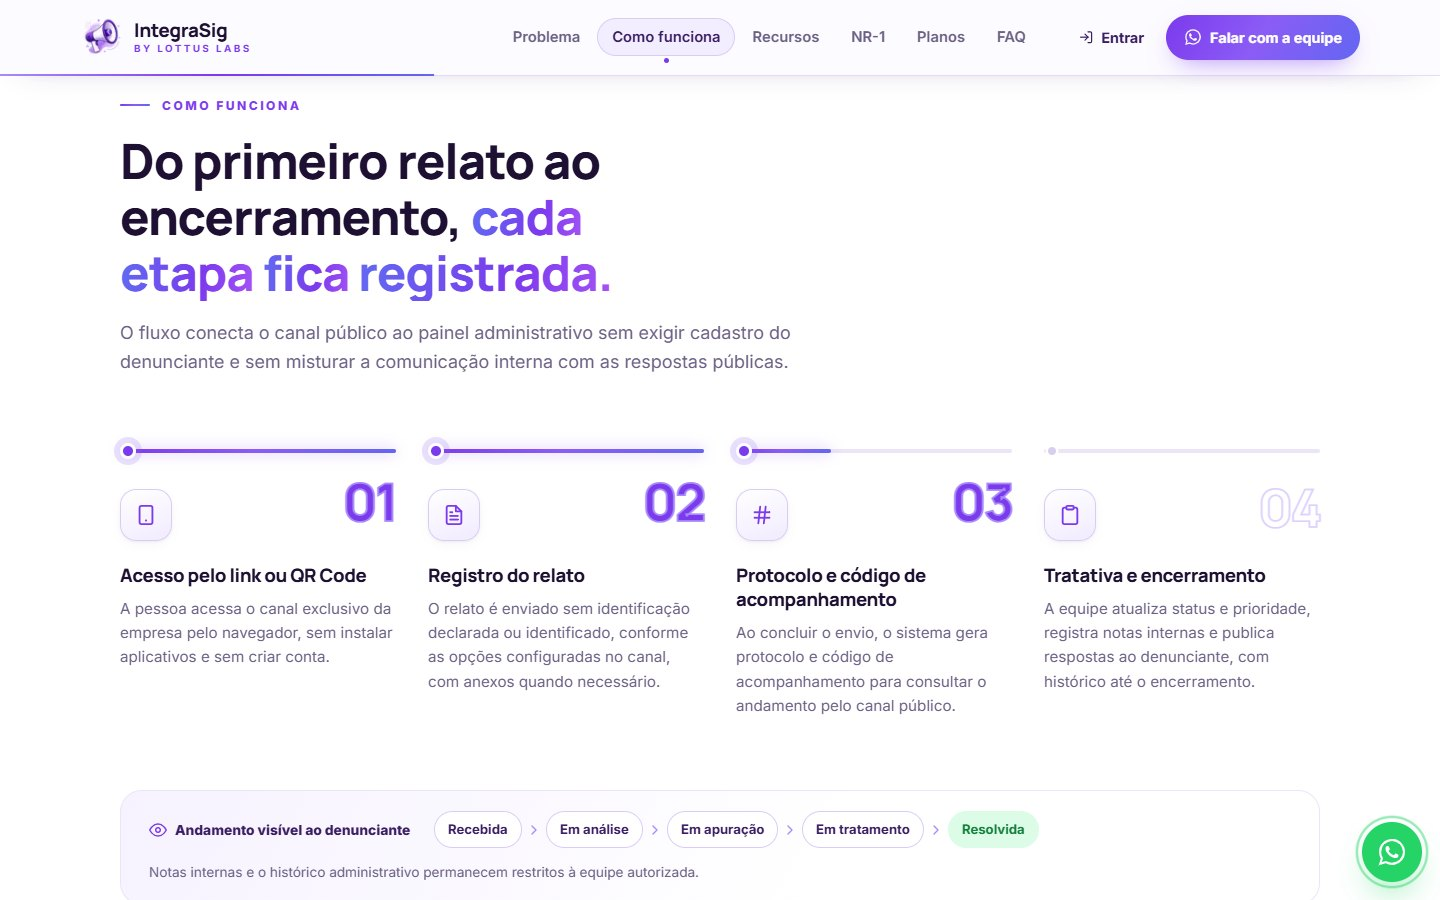
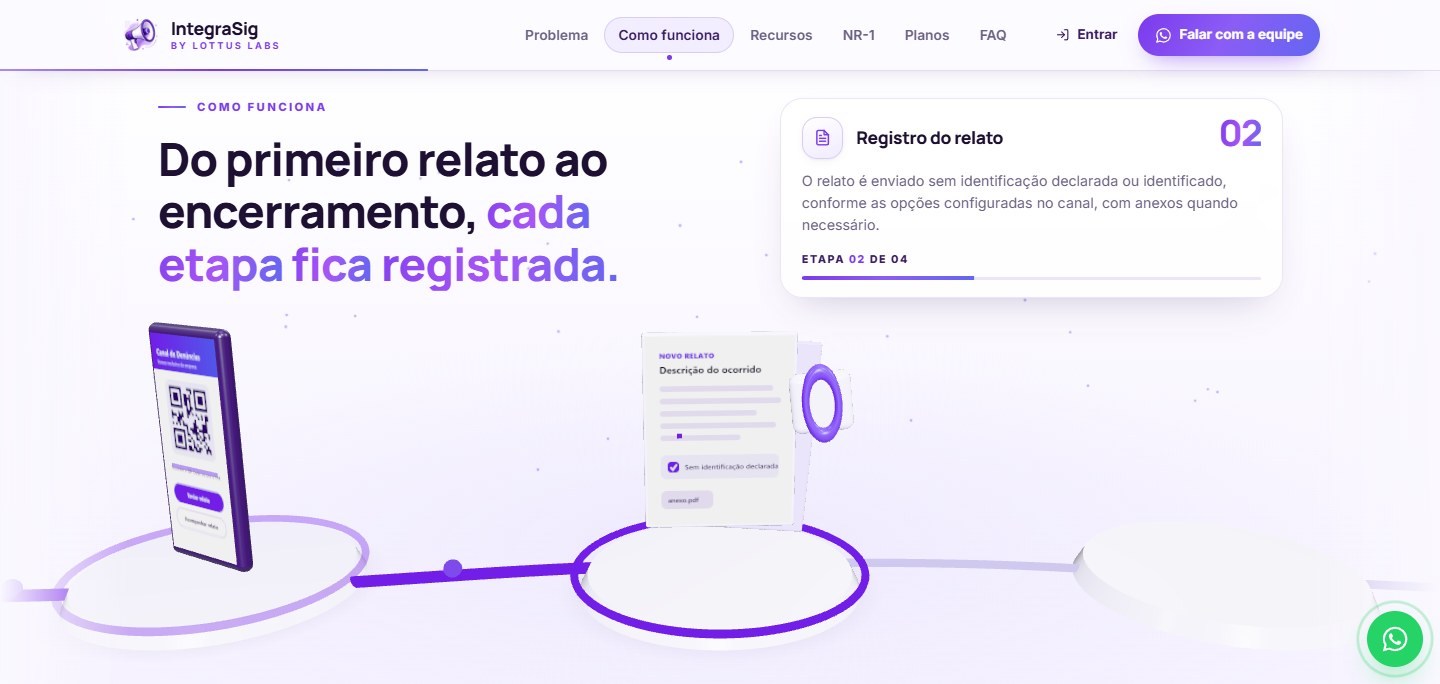
docs: refresh README screenshots and mention Three.js

diff --git a/README.md b/README.md
@@ -24,15 +24,25 @@ Está em produção, com site institucional, portal público, painel das empresa
 
 ## Prévias de algumas partes
 
-<img src="assets/desktop-inicio.jpg" alt="Tela inicial do site: “Canal de denúncias, relatos corporativos e apoio à gestão da NR-1”, com uma prévia animada do painel administrativo" width="100%">
+<img src="assets/desktop-inicio.jpg" alt="Tela inicial do site: “Canal de denúncias, relatos corporativos e apoio à gestão da NR-1”, com o megafone 3D da marca e os números sobre violência e assédio no trabalho" width="100%">
 
 ### Landing page pública de apresentação
 
 <table>
   <tr>
     <td width="50%">
-      <img src="assets/desktop-como-funciona.jpg" alt="Seção Como funciona com as quatro etapas do relato">
-      <p align="center"><b>Como funciona</b><br><sub>Do primeiro relato ao encerramento, com progresso que acompanha a rolagem</sub></p>
+      <img src="assets/desktop-legislacao.jpg" alt="Cards com Lei 14.457/2022, NR-1, NR-28, LGPD, Decreto 11.129/2022 e Código Civil">
+      <p align="center"><b>Base legal</b><br><sub>As normas que tornam o canal necessário, com links para as fontes oficiais</sub></p>
+    </td>
+    <td width="50%">
+      <img src="assets/desktop-comparativo.jpg" alt="Comparativo entre o cenário sem o IntegraSig, com improviso e e-mail, e com o canal estruturado">
+      <p align="center"><b>Do caos à governança</b><br><sub>Improviso contra canal estruturado, com ícones animados e cards que inclinam com o cursor</sub></p>
+    </td>
+  </tr>
+  <tr>
+    <td width="50%">
+      <img src="assets/desktop-como-funciona.jpg" alt="Seção Como funciona em 3D, com a etapa Registro do relato em destaque">
+      <p align="center"><b>Como funciona</b><br><sub>Percurso em 3D guiado pela rolagem, do primeiro relato ao encerramento</sub></p>
     </td>
     <td width="50%">
       <img src="assets/desktop-recursos.jpg" alt="Seção de recursos com diagrama animado e cards">
@@ -41,12 +51,12 @@ Está em produção, com site institucional, portal público, painel das empresa
   </tr>
   <tr>
     <td width="50%">
-      <img src="assets/desktop-legislacao.jpg" alt="Cards com Lei 14.457/2022, NR-1, NR-28, LGPD, Decreto 11.129/2022 e Código Civil">
-      <p align="center"><b>Base legal</b><br><sub>As normas que tornam o canal necessário, com links para as fontes oficiais</sub></p>
+      <img src="assets/desktop-nr1.jpg" alt="Seção NR-1 com radar animado dos fatores psicossociais e as três etapas de apoio à gestão de riscos">
+      <p align="center"><b>Módulo NR-1</b><br><sub>Radar dos fatores psicossociais e as etapas de apoio ao GRO</sub></p>
     </td>
     <td width="50%">
-      <img src="assets/desktop-nr1.jpg" alt="Seção NR-1 com o questionário e os indicadores agregados">
-      <p align="center"><b>Módulo NR-1</b><br><sub>Coleta sem identificação e indicadores agregados para o GRO</sub></p>
+      <img src="assets/desktop-nr1-3d.jpg" alt="Cena 3D com o questionário no celular enviando respostas anônimas para o conjunto agregado">
+      <p align="center"><b>Coleta NR-1 em 3D</b><br><sub>Cada resposta vira um dado anônimo no conjunto agregado, sem login, nome, CPF ou e-mail</sub></p>
     </td>
   </tr>
   <tr>
@@ -91,8 +101,8 @@ Está em produção, com site institucional, portal público, painel das empresa
 <table>
   <tr>
     <td width="50%">
-      <img src="assets/desktop-login.jpg" alt="Tela de login do painel administrativo">
-      <p align="center"><b>Acesso administrativo</b><br><sub>Login, primeiro acesso com troca de senha e recuperação por código</sub></p>
+      <img src="assets/desktop-login.jpg" alt="Tela de login do painel administrativo com painel animado da operação ao lado do formulário">
+      <p align="center"><b>Acesso administrativo</b><br><sub>Login com painel animado da operação, primeiro acesso com troca de senha e recuperação por código</sub></p>
     </td>
     <td width="50%">
       <img src="assets/painel-dashboard.jpg" alt="Dashboard com denúncias por status e por categoria">
@@ -145,7 +155,7 @@ Notas internas e o histórico administrativo nunca saem do painel. O denunciante
 
 <div align="center">
 
-[![Next.js](https://img.shields.io/badge/Next.js_16-000000?style=for-the-badge&logo=nextdotjs&logoColor=white)](https://nextjs.org) [![React](https://img.shields.io/badge/React_19-20232A?style=for-the-badge&logo=react&logoColor=61DAFB)](https://react.dev) [![TypeScript](https://img.shields.io/badge/TypeScript-3178C6?style=for-the-badge&logo=typescript&logoColor=white)](https://www.typescriptlang.org) [![CSS Modules](https://img.shields.io/badge/CSS_Modules-1572B6?style=for-the-badge&logo=cssmodules&logoColor=white)](https://github.com/css-modules/css-modules)
+[![Next.js](https://img.shields.io/badge/Next.js_16-000000?style=for-the-badge&logo=nextdotjs&logoColor=white)](https://nextjs.org) [![React](https://img.shields.io/badge/React_19-20232A?style=for-the-badge&logo=react&logoColor=61DAFB)](https://react.dev) [![TypeScript](https://img.shields.io/badge/TypeScript-3178C6?style=for-the-badge&logo=typescript&logoColor=white)](https://www.typescriptlang.org) [![CSS Modules](https://img.shields.io/badge/CSS_Modules-1572B6?style=for-the-badge&logo=cssmodules&logoColor=white)](https://github.com/css-modules/css-modules) [![Three.js](https://img.shields.io/badge/Three.js-000000?style=for-the-badge&logo=threedotjs&logoColor=white)](https://threejs.org)
 
 [![NestJS](https://img.shields.io/badge/NestJS_11-E0234E?style=for-the-badge&logo=nestjs&logoColor=white)](https://nestjs.com) [![Prisma](https://img.shields.io/badge/Prisma-2D3748?style=for-the-badge&logo=prisma&logoColor=white)](https://www.prisma.io) [![PostgreSQL](https://img.shields.io/badge/PostgreSQL_16-4169E1?style=for-the-badge&logo=postgresql&logoColor=white)](https://www.postgresql.org) [![Swagger](https://img.shields.io/badge/Swagger-85EA2D?style=for-the-badge&logo=swagger&logoColor=black)](https://swagger.io)
 
@@ -157,7 +167,7 @@ Notas internas e o histórico administrativo nunca saem do painel. O denunciante
 | --- | --- |
 | Frontend | Next.js 16 (App Router), React 19 e TypeScript |
 | Estilos | CSS Modules com tokens próprios, sem frameworks de CSS |
-| Animações | CSS puro (keyframes e transições) e IntersectionObserver |
+| Animações | CSS (keyframes e transições), IntersectionObserver e Three.js para as cenas 3D |
 | Backend | NestJS 11 com TypeScript, class-validator e documentação Swagger/OpenAPI |
 | Banco de dados | PostgreSQL 16 com Prisma ORM e migrations versionadas |
 | Autenticação | JWT em cookies HTTP-only, refresh token rotativo e CSRF |
@@ -262,14 +272,13 @@ Relatos podem conter dados pessoais e sensíveis, então a segurança foi tratad
 - **Logo**: escudo com cadeado, cercado de pessoas, checklist e indicadores, com o lema "Tecnologia · Ética · Conformidade". No site, o megafone roxo funciona como ícone da marca.
 - **Cores**: roxo como cor de ação, do violeta ao índigo em gradiente, sobre fundos claros e cards brancos. As seções de segurança e planos usam um roxo quase preto para dar peso institucional.
 - **Tipografia**: Manrope nos títulos e Inter nos textos e na interface.
-- **Movimento**: revelação ao rolar, contadores animados, profundidade 3D que segue o cursor e diagramas animados, tudo em CSS e TypeScript sem bibliotecas de animação e respeitando a preferência "reduzir movimento".
+- **Movimento**: revelação ao rolar, contadores animados, cenas 3D em Three.js (carregadas sob demanda e pausadas fora da tela), profundidade que segue o cursor e diagramas animados, respeitando a preferência "reduzir movimento".
 - **White-label**: no canal público, logo, cores, banner e fonte passam a ser os da empresa cliente.
 
 <br>
 
 ## Código-fonte
 
-> [!NOTE]
 > O código-fonte deste projeto é **privado**. Este repositório serve apenas como apresentação do trabalho.
 
 <br>
